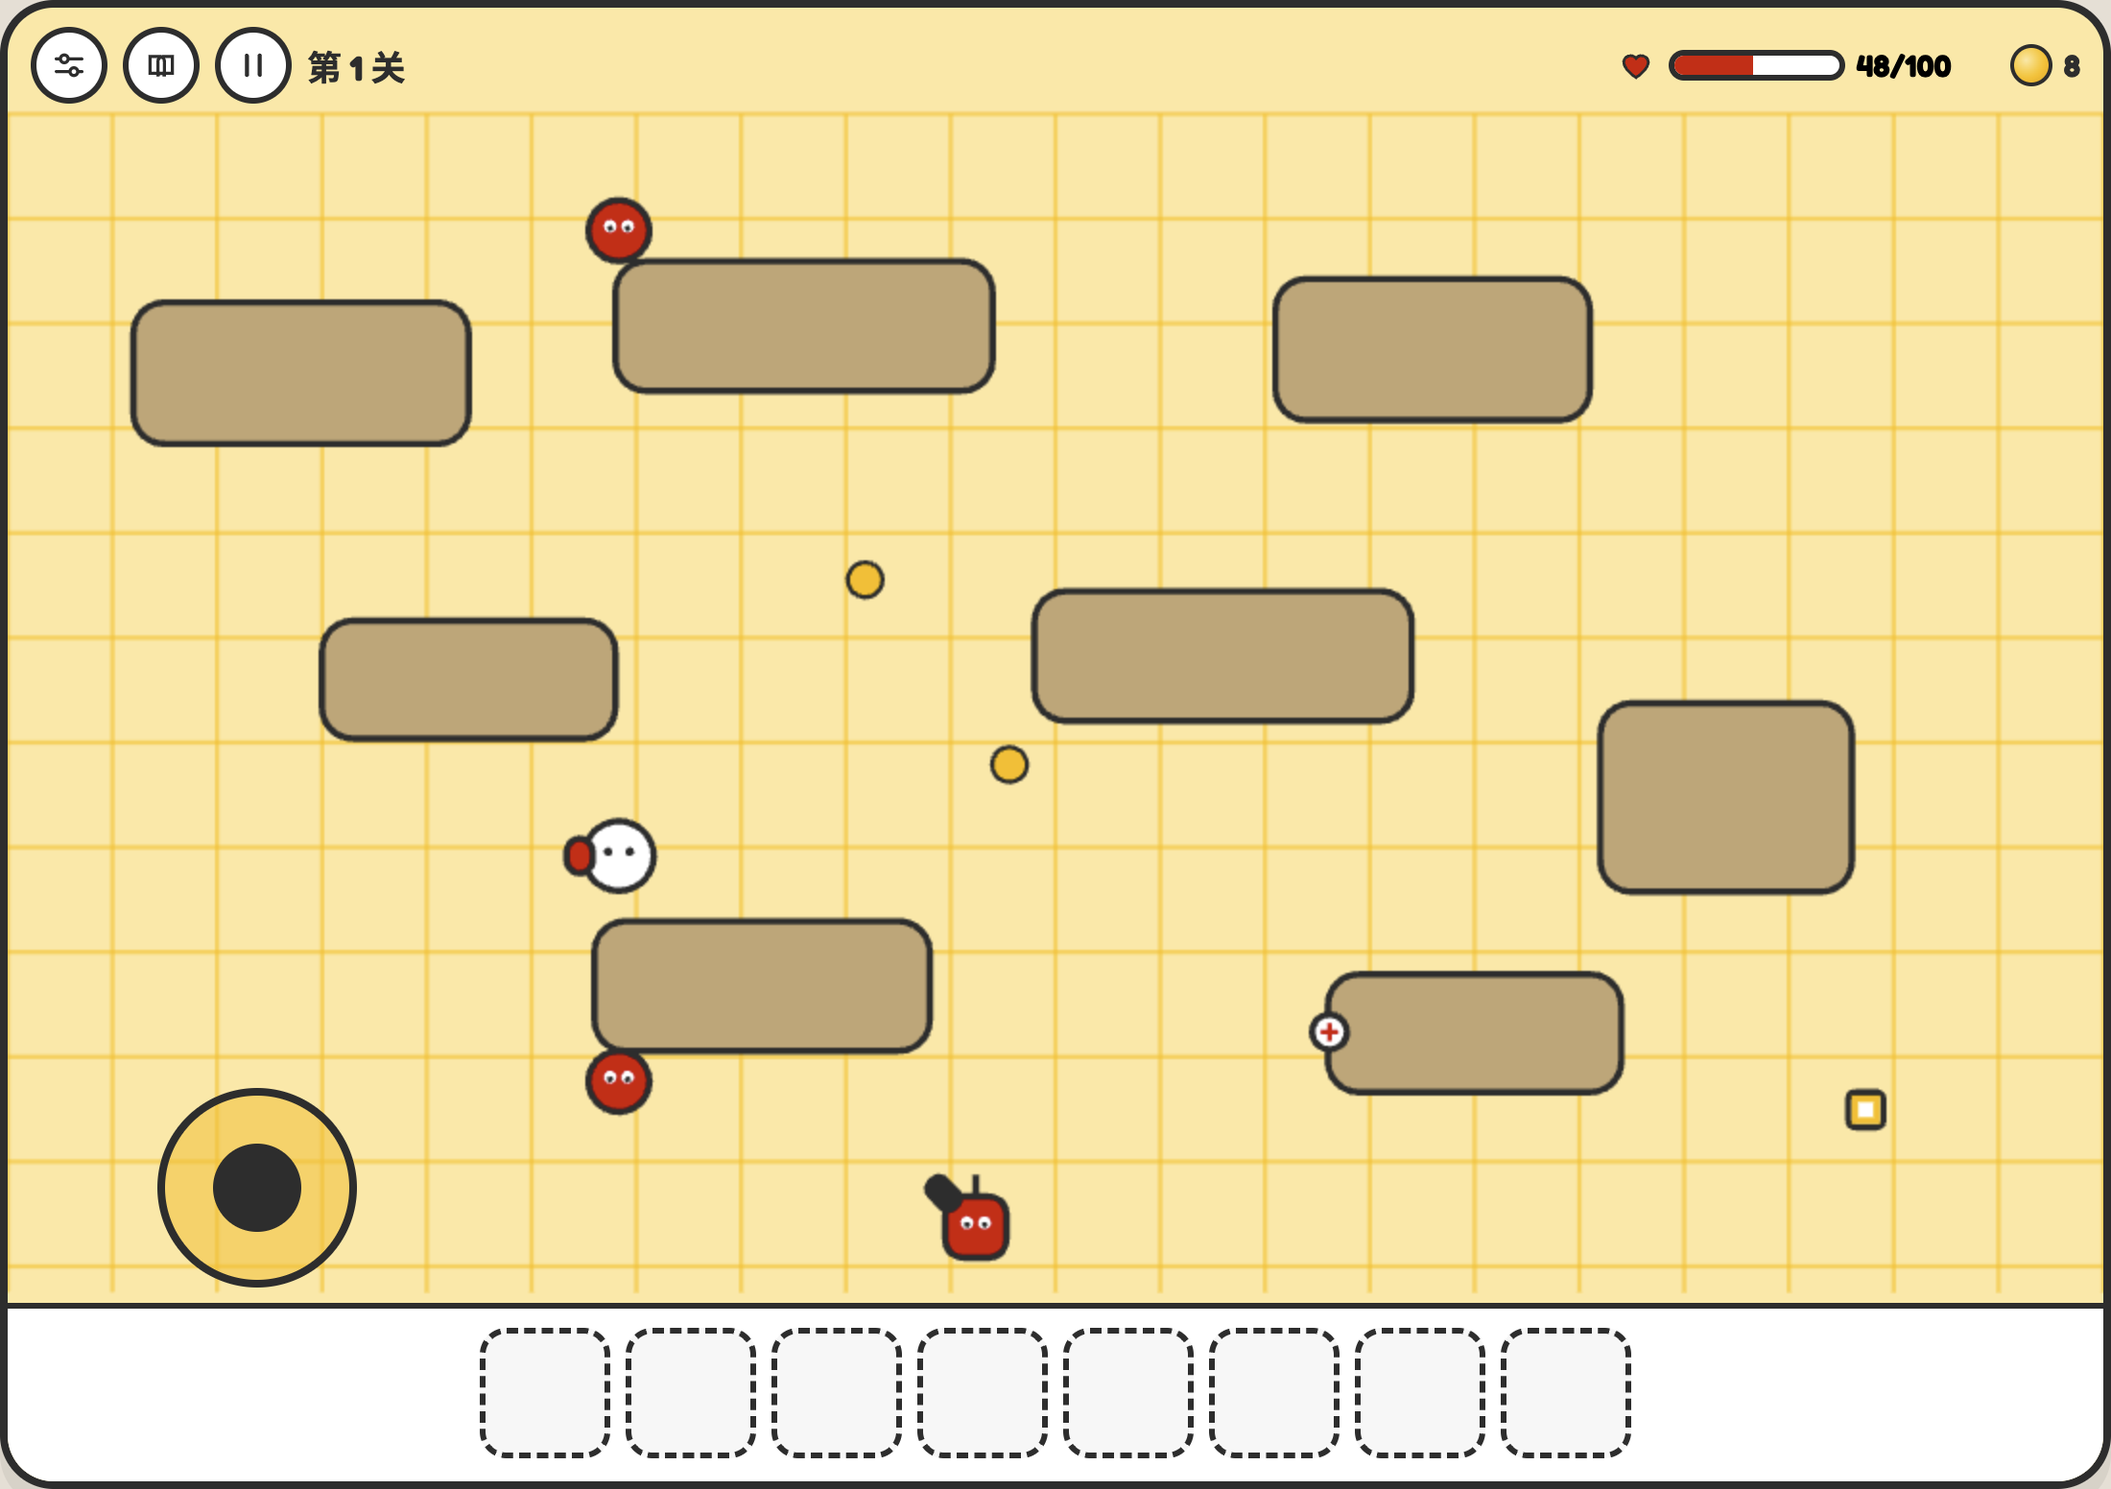
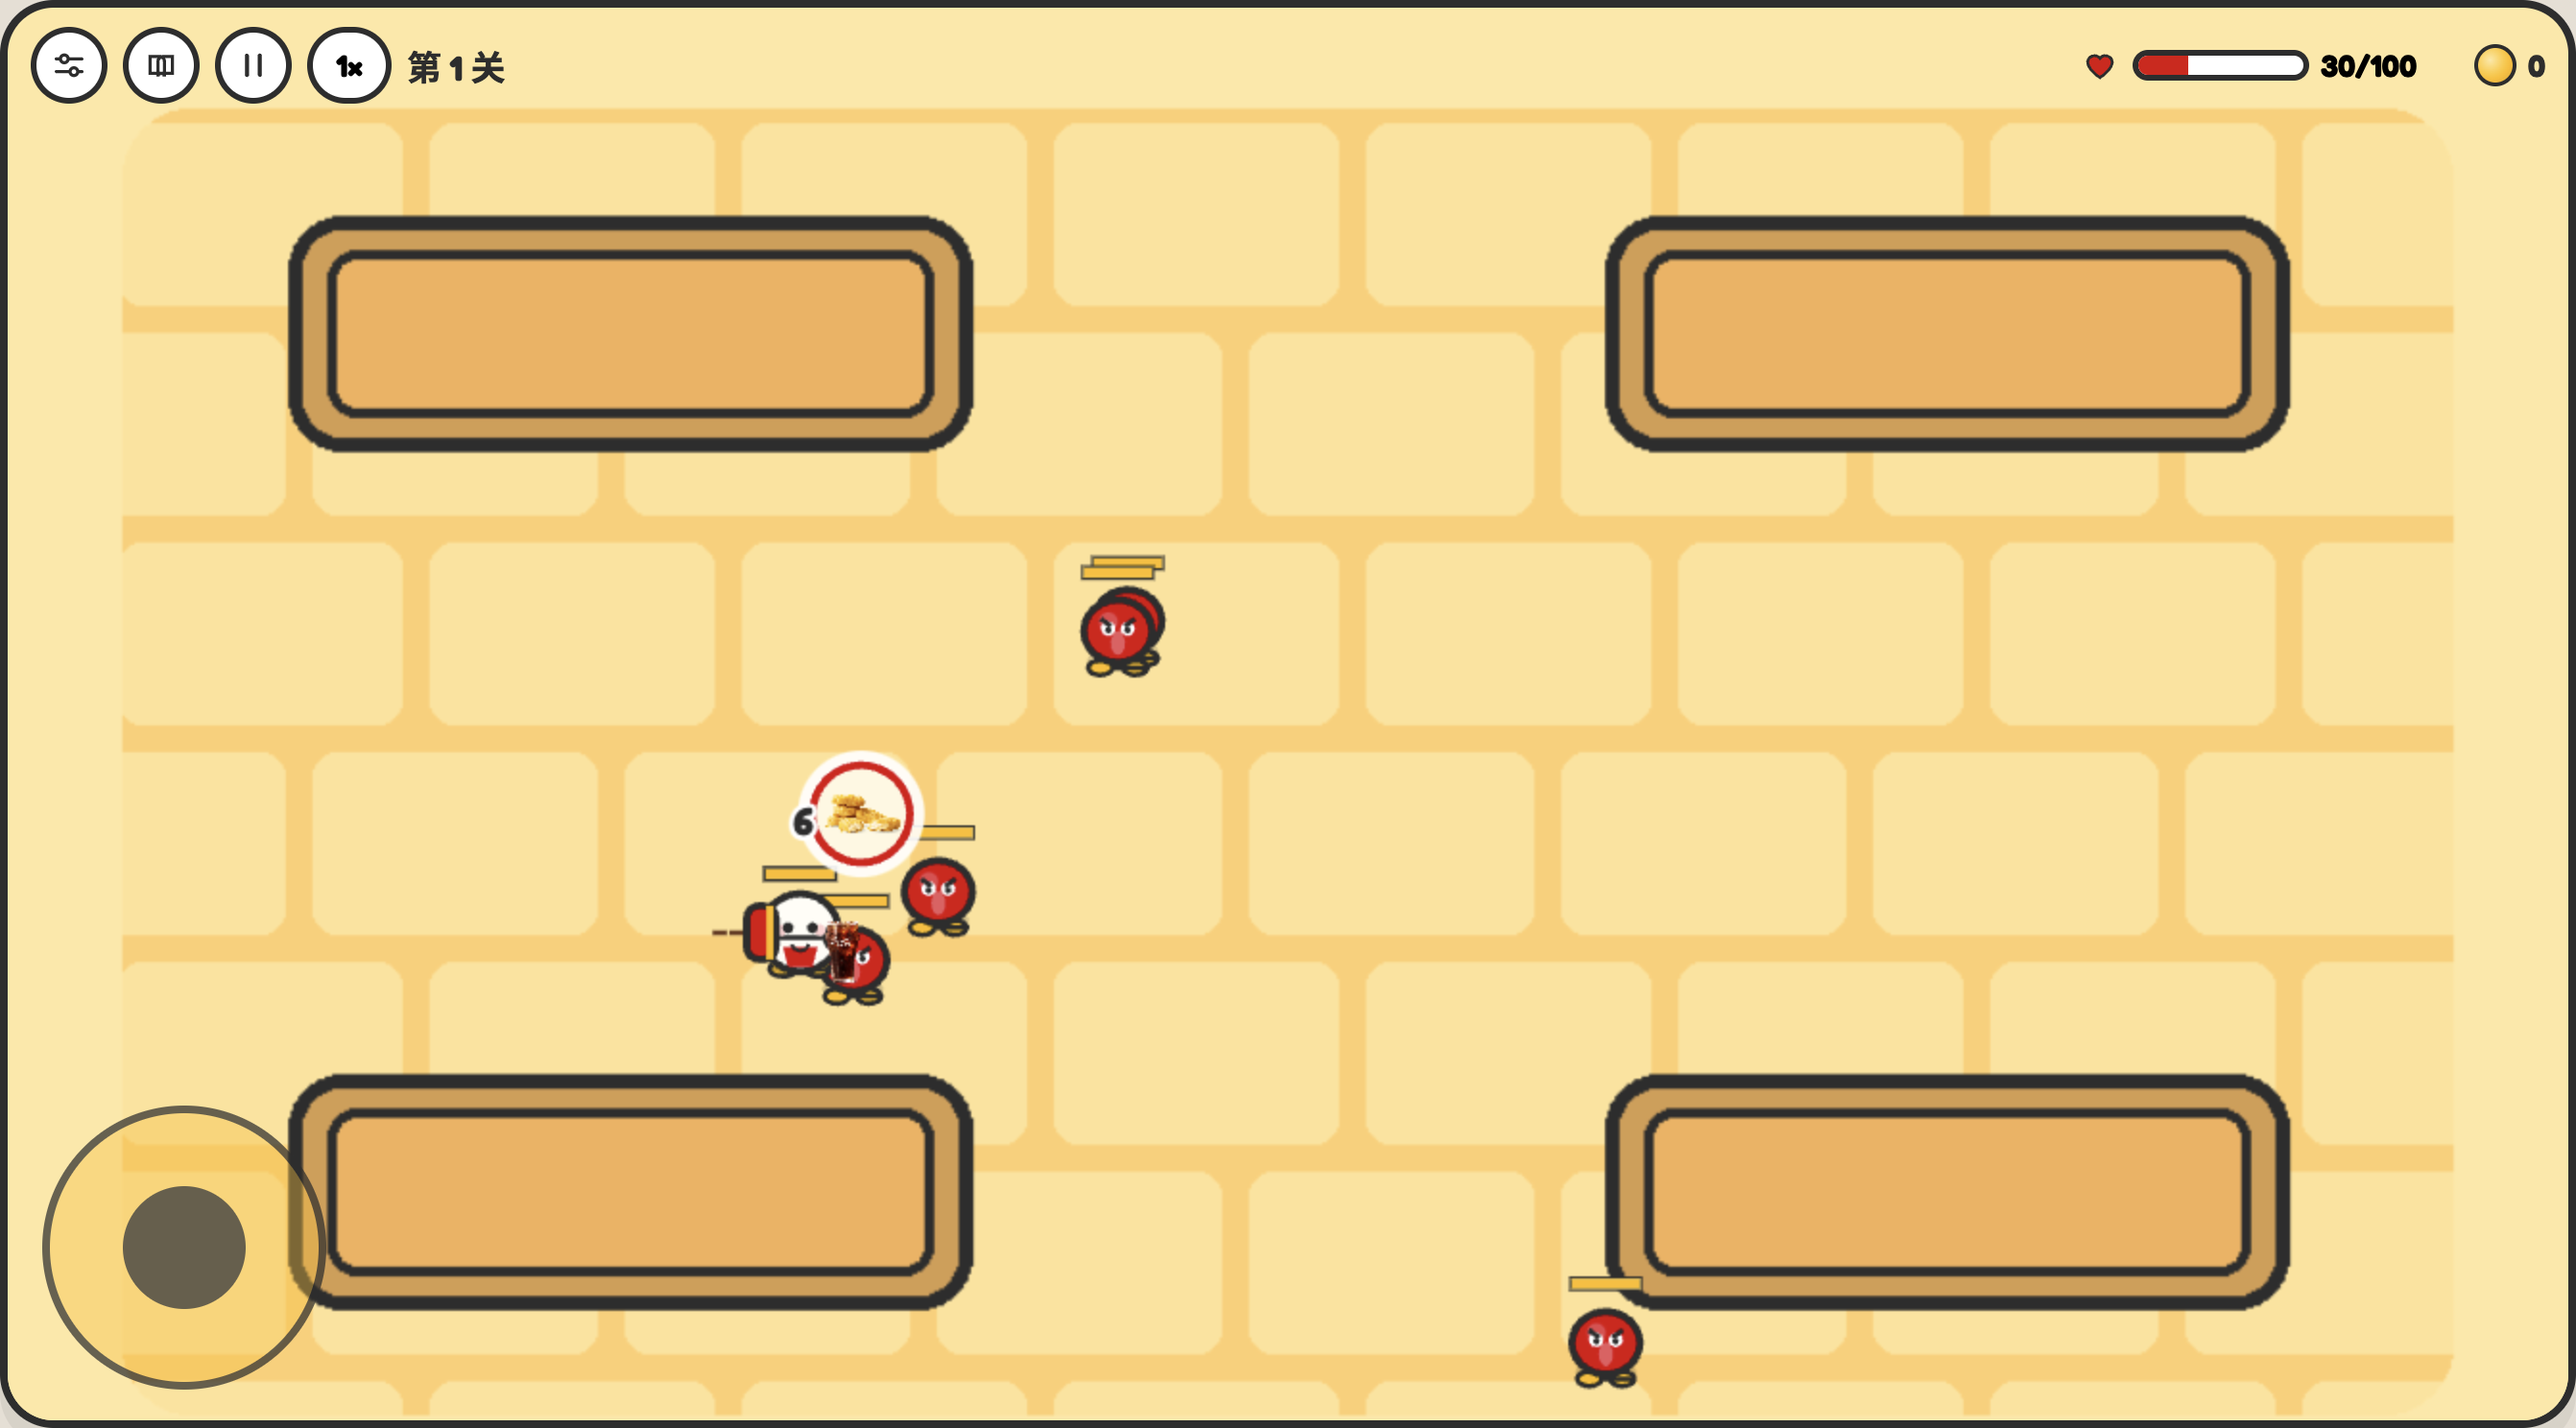
换成三首不同的关卡音乐，并更新 README 里的游戏截图。
前几关、中段和终局各用一首曲子，截图改成现在的横屏、竖屏和手册。

diff --git a/src/sfx.ts b/src/sfx.ts
@@ -73,36 +73,41 @@ export class Sfx {
 }
 
 type Mood = "street" | "rush" | "heat";
+type Drum = 0 | "k" | "h" | "kh";
 
 type Track = {
   step: number;
-  leadHold: number;
+  leadType: OscillatorType;
+  leadGain: number;
   bass: Array<number | 0>;
   lead: Array<number | 0>;
-  tickEvery: number;
+  drum: Drum[];
 };
 
 const tracks: Record<Mood, Track> = {
   street: {
-    step: 0.19,
-    leadHold: 0.8,
-    tickEvery: 2,
-    bass: [131, 0, 131, 0, 131, 0, 196, 0, 175, 0, 175, 0, 196, 0, 131, 0],
-    lead: [523, 659, 784, 659, 880, 784, 659, 587, 523, 659, 784, 1047, 880, 784, 659, 523],
+    step: 0.27,
+    leadType: "sine",
+    leadGain: 0.034,
+    bass: [131, 0, 0, 98, 175, 0, 0, 131, 196, 0, 0, 147, 131, 0, 98, 0],
+    lead: [523, 0, 659, 0, 784, 659, 0, 587, 0, 523, 0, 440, 392, 0, 440, 0],
+    drum: ["k", 0, "h", 0, "k", 0, "h", 0, "k", 0, "h", 0, "k", 0, "h", 0],
   },
   rush: {
-    step: 0.16,
-    leadHold: 0.62,
-    tickEvery: 1,
-    bass: [110, 0, 110, 165, 110, 0, 82, 165, 87, 0, 87, 131, 82, 0, 110, 165],
-    lead: [440, 523, 659, 880, 784, 659, 523, 587, 659, 784, 880, 1047, 988, 880, 784, 659],
+    step: 0.2,
+    leadType: "triangle",
+    leadGain: 0.03,
+    bass: [147, 0, 175, 196, 220, 0, 196, 175, 165, 0, 147, 131, 147, 0, 110, 131],
+    lead: [0, 587, 0, 698, 0, 0, 659, 587, 0, 523, 0, 587, 698, 0, 784, 0],
+    drum: ["k", "h", 0, "h", "kh", "h", "k", "h", "k", "h", 0, "kh", "k", "h", "h", 0],
   },
   heat: {
-    step: 0.135,
-    leadHold: 0.5,
-    tickEvery: 1,
-    bass: [82, 123, 82, 165, 98, 147, 82, 123, 82, 123, 110, 165, 98, 147, 82, 123],
-    lead: [659, 784, 988, 1319, 1175, 988, 784, 880, 659, 880, 1175, 1319, 1047, 988, 880, 784],
+    step: 0.16,
+    leadType: "triangle",
+    leadGain: 0.026,
+    bass: [110, 110, 0, 110, 82, 0, 110, 0, 98, 0, 110, 0, 87, 110, 0, 82],
+    lead: [440, 0, 523, 494, 440, 392, 0, 349, 440, 523, 0, 659, 523, 0, 494, 440],
+    drum: ["kh", "h", "h", "k", "kh", "h", "h", "k", "kh", "h", "k", "h", "kh", "h", "h", "k"],
   },
 };
 
@@ -117,7 +122,10 @@ export class Bgm {
   }
 
   setCourse(wave: number) {
-    this.mood = wave >= 10 ? "heat" : wave >= 5 ? "rush" : "street";
+    const mood: Mood = wave >= 10 ? "heat" : wave >= 5 ? "rush" : "street";
+    if (mood === this.mood) return;
+    this.mood = mood;
+    this.step = 0;
   }
 
   ensure() {
@@ -137,28 +145,39 @@ export class Bgm {
     const audio = context();
     const track = tracks[this.mood];
     while (this.next < audio.currentTime + 0.22) {
-      const beat = this.step % 16;
+      const beat = this.step % track.lead.length;
       const bass = track.bass[beat];
-      if (bass) this.note(bass, this.next, track.step * 1.35, 0.03, "sine");
+      if (bass) this.note(bass, this.next, track.step * 1.6, 0.028, "sine");
       const lead = track.lead[beat];
-      if (lead) this.note(lead, this.next, track.step * track.leadHold, 0.042, "triangle");
-      if (beat % track.tickEvery === 0) this.note(beat % 4 === 0 ? 1760 : 1400, this.next, 0.028, beat % 4 === 0 ? 0.014 : 0.008, "square");
+      if (lead) this.note(lead, this.next, track.step * 0.9, track.leadGain, track.leadType);
+      const drum = track.drum[beat];
+      if (drum === "k" || drum === "kh") this.kick(this.next);
+      if (drum === "h" || drum === "kh") this.hat(this.next);
       this.step += 1;
       this.next += track.step;
     }
   }
 
-  private note(freq: number, when: number, duration: number, volume: number, type: OscillatorType) {
+  private note(freq: number, when: number, duration: number, volume: number, type: OscillatorType, downTo = 0) {
     const audio = context();
     const osc = audio.createOscillator();
     const amp = audio.createGain();
     osc.type = type;
     osc.frequency.setValueAtTime(freq, when);
+    if (downTo > 0) osc.frequency.exponentialRampToValueAtTime(downTo, when + duration);
     amp.gain.setValueAtTime(volume, when);
-    amp.gain.exponentialRampToValueAtTime(0.001, when + duration);
+    amp.gain.exponentialRampToValueAtTime(0.001, when + Math.max(0.03, duration));
     osc.connect(amp);
     amp.connect(audio.destination);
     osc.start(when);
     osc.stop(when + duration + 0.02);
+  }
+
+  private kick(when: number) {
+    this.note(150, when, 0.09, 0.05, "sine", 52);
+  }
+
+  private hat(when: number) {
+    this.note(1700, when, 0.02, 0.006, "square");
   }
 }

diff --git a/README.md b/README.md
@@ -6,7 +6,7 @@
 
 ## 画面
 
-电脑上画面铺满窗口，整张地图都在战场里。手机请横过来玩，竖着打开时会提示转到横屏。技能格在横屏排成一行，轮盘在左下角。手册按法球、肉盾、法术查看已经接上的餐品。
+电脑上整张地图都在画面里。手机竖着玩时镜头跟着人物走，右上角有小地图，轮盘在左下角。手册分成技能和神器。
 
 ![横屏战斗](docs/screenshots/battle-land.png)
 
